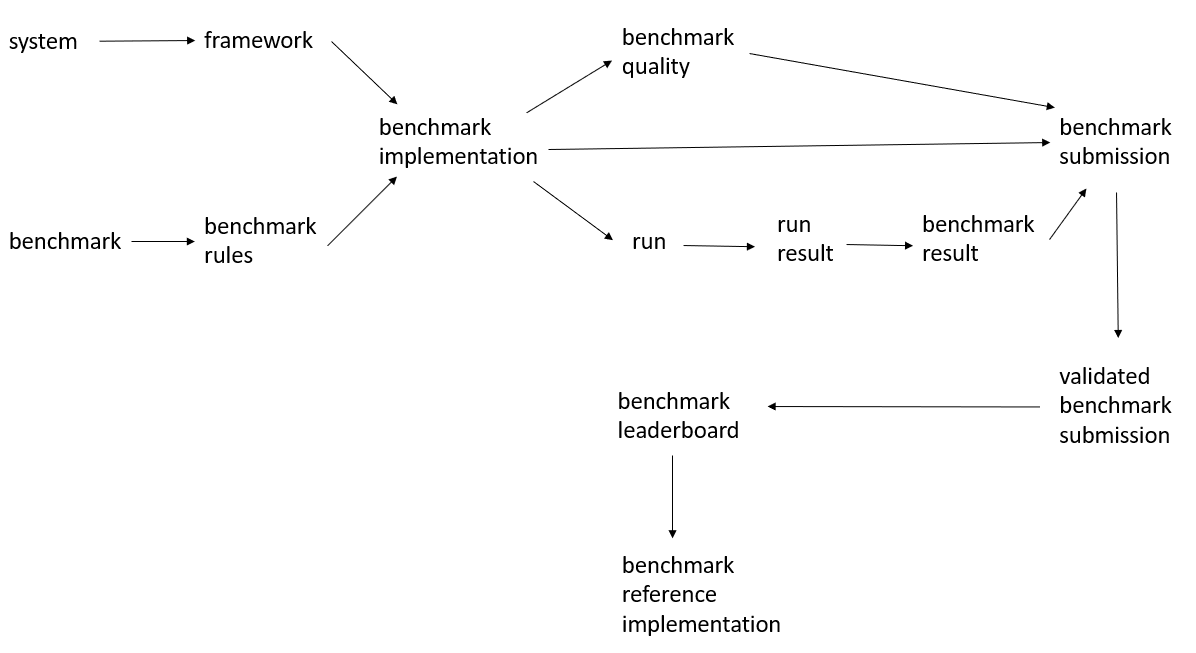
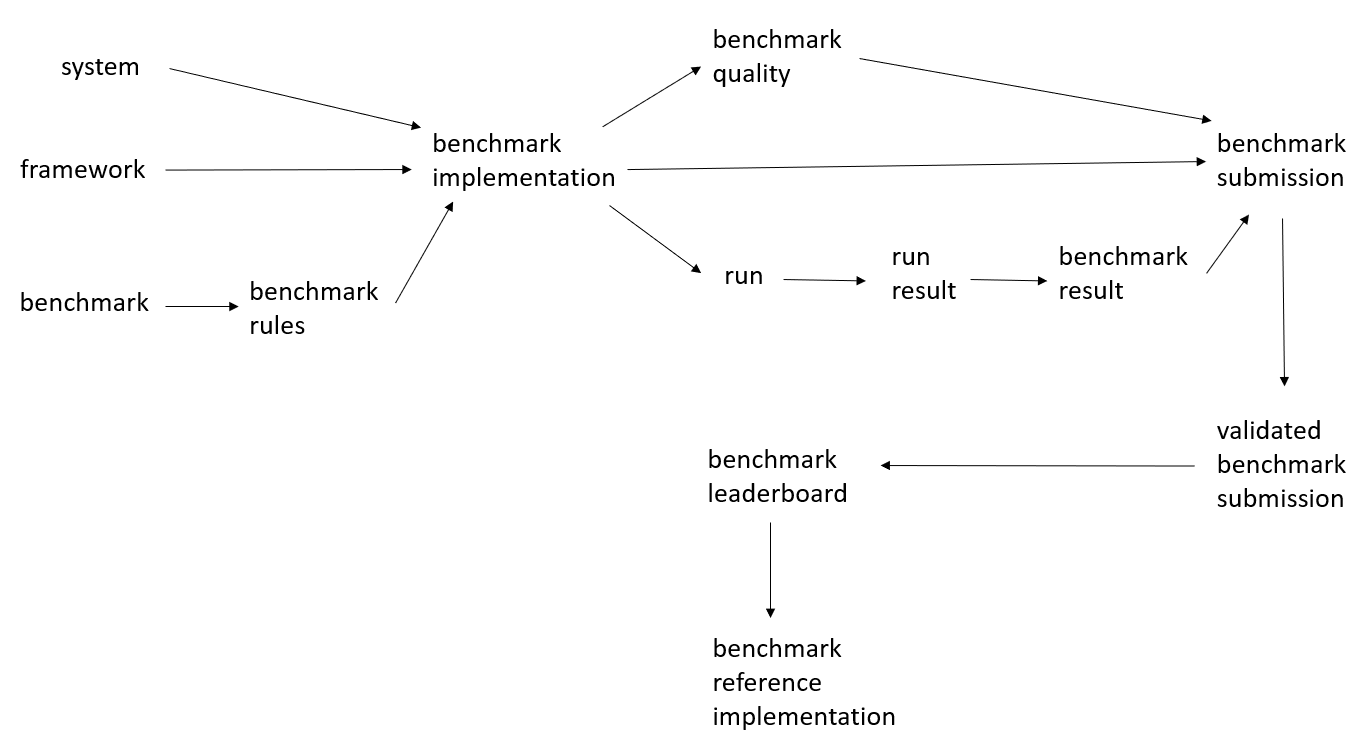
fix typo and improve the diagram

diff --git a/internal_docs/tsperf_rules.md b/internal_docs/tsperf_rules.md
@@ -13,7 +13,7 @@ A *benchmark* is an abstract problem that can be solved using ML by training a m
 
 *Benchmark rules* is a set of rules for implementing a benchmark to produce a class of comparable results, such as training and test set partition, performance evaluation metric and process.
 
-A *system* consists of a defined set of cloud harvare resources and services such as processors, memories, disks, clusters and interconnect. It also includes specific versions of all software such as operating system, compilers, libraries, and drivers that significantly influences the running time, excluding the ML framework.
+A *system* consists of a defined set of cloud hardware resources and services such as processors, memories, disks, clusters and interconnect. It also includes specific versions of all software such as operating system, compilers, libraries, and drivers that significantly influences the running time, excluding the ML framework.
 
 A *framework* is a specific version of a software library or set of related libraries, possibly with associated offline compiler, for training ML models using a system. Examples include specific versions of Caffe2, MXNet, PaddlePaddle, pyTorch, or TensorFlow.
 
@@ -76,8 +76,7 @@ Chenhui, Ilan
 
 ## Review of submissions
 
-Guidance for reviewing submissions  
-Dmitry
+
 
 ## Leaderboard
 
